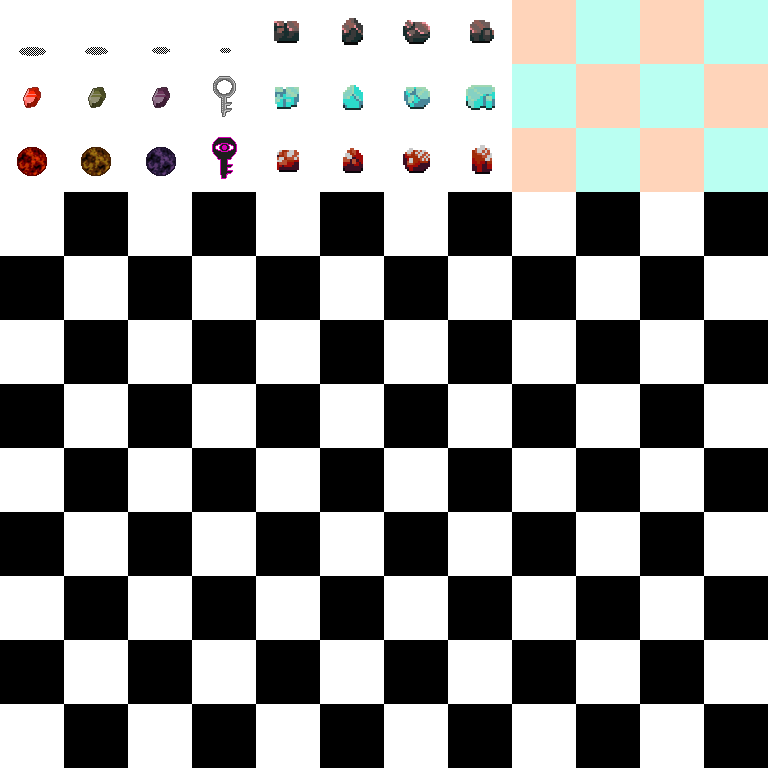
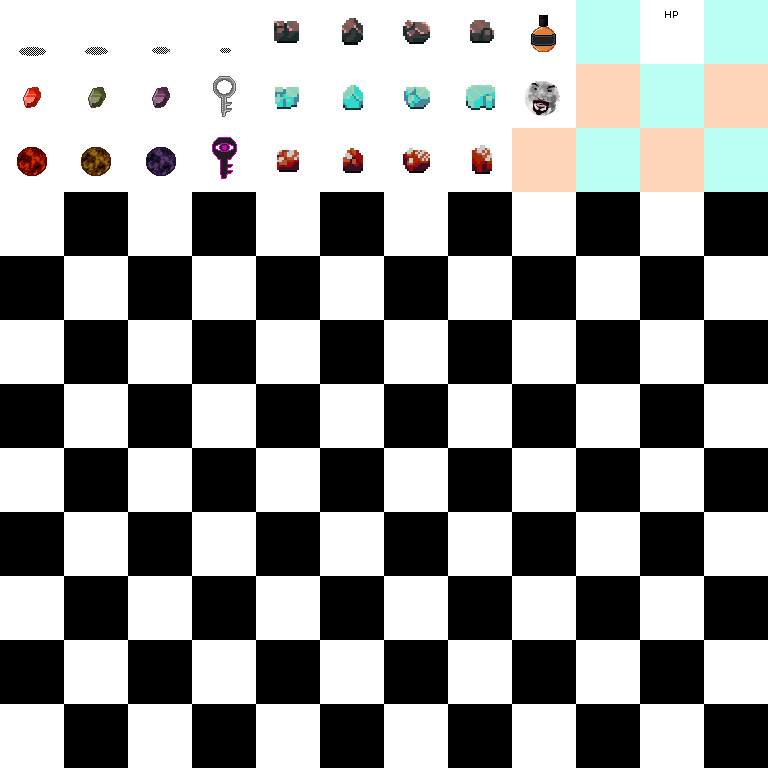
Fixes

Changed region(s): [[0.6562, 0.0, 0.75, 0.1875], [0.8125, 0.0, 0.9375, 0.0938]]

diff --git a/SharpDungeon/Game/Entities/Player.cs b/SharpDungeon/Game/Entities/Player.cs
@@ -250,7 +250,7 @@ namespace SharpDungeon.Game.Entities {
             renderUI(g);
             inventory.render(g);
 
-            TextRenderer.DrawText(g, $"+ = {dropNum+inventory.scroll}\ndropNum = {dropNum}\nscroll = {inventory.scroll}\nwheel = {handler.mouseManager.wheel}\ncharge = {charge}\nhealth = {handler.world.entityManager.player.health}\noffsetx = {handler.gameCamera.xOffset}\noffsety = {handler.gameCamera.yOffset}\nmid = {handler.mouseManager.mouseMid}\nmove = {handler.mouseManager.move}\ndirectionisnull? = {direction == null}\nwasMid = {wasMid}\nwasMid2 = {wasMid2}\nthisX = {thisX}\nthisY = {thisY}\ndirStepX = {dirStepX}\ndirStepY = {dirStepY}\nisRightAnimation = { ((int)x / Tile.tileWidth > handler.world.toWorldX(handler.mouseManager.mouseX)).ToString() }", Assets.themeFont, new Point(0, 500), Color.White);
+            TextRenderer.DrawText(g, $"Count = {inventory.inventoryItems.Count}\n+ = {dropNum+inventory.scroll}\ndropNum = {dropNum}\nscroll = {inventory.scroll}\nwheel = {handler.mouseManager.wheel}\ncharge = {charge}\nhealth = {handler.world.entityManager.player.health}\noffsetx = {handler.gameCamera.xOffset}\noffsety = {handler.gameCamera.yOffset}\nmid = {handler.mouseManager.mouseMid}\nmove = {handler.mouseManager.move}\ndirectionisnull? = {direction == null}\nwasMid = {wasMid}\nwasMid2 = {wasMid2}\nthisX = {thisX}\nthisY = {thisY}\ndirStepX = {dirStepX}\ndirStepY = {dirStepY}\nisRightAnimation = { ((int)x / Tile.tileWidth > handler.world.toWorldX(handler.mouseManager.mouseX)).ToString() }", Assets.themeFont, new Point(0, 500), Color.White);
 
         }
 
@@ -305,45 +305,47 @@ namespace SharpDungeon.Game.Entities {
             //States
             g.DrawImage(Assets.playerStates, 35 + handler.world.width * 8, 13, Assets.playerStates.Width*1.5f, Assets.playerStates.Height* 1.5f);
             g.DrawImage(playerState.getCurrentFrame(), 50 + handler.world.width * 8, 25, Tile.tileWidth, Tile.tileHeight);
+            g.DrawImage(Assets.playerDrop, 35 + handler.world.width * 8, 219, Assets.playerStates.Width * 1.5f, Assets.playerStates.Height * 1.5f);
             g.FillRectangle(Brushes.PaleVioletRed, 134 + handler.world.width * 8, 20, (int)(((double)health / (double)defaultHealth) * (double)249*1.5f), 9);
             g.FillRectangle(Brushes.LightGoldenrodYellow, 134 + handler.world.width * 8, 40, (int)(((double)xp / (double)maxXP) * (double)249 * 1.5f), 9);
+            //Charge
+            g.FillRectangle(Brushes.BlueViolet, 80 + handler.world.width * 8, 239, (int)(((double)charge / (double)20) * (double)249 * 1.5f), 9);
+            g.FillRectangle(Assets.uiBack, 80 + handler.world.width * 8, 239, (int)(((double)chargeTime / (double)10) * (double)249 * 1.5f), 9);
             TextRenderer.DrawText(g, $"Level {level}", Assets.themeFont, new Point(165 + handler.world.width * 8, 70), Color.White);
             TextRenderer.DrawText(g, $"World {world}", Assets.themeFont, new Point(370 + handler.world.width * 8, 70), Color.White);
-
-            //Drop
-            g.DrawImage(Assets.playerDrop, 35 + handler.world.width * 8, 219, Assets.playerStates.Width * 1.5f, Assets.playerStates.Height * 1.5f);
+            
 
             if (renderDrop) {
 
                 wasRenderDrop = true;
 
                 if (inventory.inventoryItems.Count == 1)
-                    g.FillRectangle(Brushes.White, 230 + handler.world.width * 8, 236, 72, 15);
+                    g.FillRectangle(Assets.uiFore, 230 + handler.world.width * 8, 236, 72, 15);
 
                 if (inventory.inventoryItems.Count == 2)
                     if(twoItemsDropNum == 0)
-                        g.FillRectangle(Brushes.White, 198 + handler.world.width * 8, 236, 72, 15);
+                        g.FillRectangle(Assets.uiFore, 198 + handler.world.width * 8, 236, 72, 15);
                     else
-                        g.FillRectangle(Brushes.White, 284 + handler.world.width * 8, 236, 72, 15);
+                        g.FillRectangle(Assets.uiFore, 284 + handler.world.width * 8, 236, 72, 15);
 
                 if (inventory.inventoryItems.Count > 2)
                     if(dropNum == 0)
-                        g.FillRectangle(Brushes.White, 145 + handler.world.width * 8, 236, 72, 15);
+                        g.FillRectangle(Assets.uiFore, 145 + handler.world.width * 8, 236, 72, 15);
                     else if(dropNum == 1)
-                        g.FillRectangle(Brushes.White, 240 + handler.world.width * 8, 236, 72, 15);
+                        g.FillRectangle(Assets.uiFore, 240 + handler.world.width * 8, 236, 72, 15);
                     else if(dropNum == 2)
-                        g.FillRectangle(Brushes.White, 335 + handler.world.width * 8, 236, 72, 15);
+                        g.FillRectangle(Assets.uiFore, 335 + handler.world.width * 8, 236, 72, 15);
 
             } else if(wasRenderDrop) {
                 if(!handler.world.getTile(handler.world.toWorldX(handler.mouseManager.mouseX),
                                           handler.world.toWorldY(handler.mouseManager.mouseY)).isSolid()) {
                     if(inventory.inventoryItems.Count > 2) {
-                            Item item = inventory.inventoryItems[inventory.scroll + dropNum];
-                            item.count--;
-                            handler.world.itemManager.addItem(item.createNew(handler.world.toWorldX(handler.mouseManager.mouseX) * Tile.tileWidth,
-                                                                             handler.world.toWorldY(handler.mouseManager.mouseY) * Tile.tileHeight));
-                            if (item.count <= 0)
-                                inventory.inventoryItems.Remove(item);
+                        Item item = inventory.inventoryItems[inventory.scroll + dropNum];
+                        item.count--;
+                        handler.world.itemManager.addItem(item.createNew(handler.world.toWorldX(handler.mouseManager.mouseX) * Tile.tileWidth,
+                                                                         handler.world.toWorldY(handler.mouseManager.mouseY) * Tile.tileHeight));
+                        if (item.count <= 0)
+                            inventory.inventoryItems.Remove(item);
 
                     } else if(inventory.inventoryItems.Count == 2) {
                         Item item = inventory.inventoryItems[inventory.scroll + twoItemsDropNum];

diff --git a/SharpDungeon/Game/Tiles/CraftingTableCoreTile.cs b/SharpDungeon/Game/Tiles/CraftingTableCoreTile.cs
@@ -5,9 +5,11 @@ using System.Collections.Generic;
 using System.Linq;
 using System.Text;
 using System.Threading.Tasks;
+using System.Windows.Forms;
 
 namespace SharpDungeon.Game.Tiles {
     public class CraftingTableCoreTile : TileSingleSide {
+
 
         public CraftingTableCoreTile(int id) : base(Assets.craftingTableCore[0], id) {
 
@@ -18,10 +20,48 @@ namespace SharpDungeon.Game.Tiles {
             if ((int)(handler.world.entityManager.player.x) / Tile.tileWidth == x &&
                 (int)(handler.world.entityManager.player.y) / Tile.tileHeight == y) {
                 currentTex = Assets.craftingTableCore[1];
-                handler.world.getTile(x - 1, y-1).currentTex = Assets.craftingTableCell[1];
-                handler.world.getTile(x, y-1).currentTex = Assets.craftingTableCell[1];
+                handler.world.getTile(x - 1, y - 1).currentTex = Assets.craftingTableCell[1];
+                handler.world.getTile(x, y - 1).currentTex = Assets.craftingTableCell[1];
                 handler.world.getTile(x + 1, y - 1).currentTex = Assets.craftingTableCell[1];
                 handler.world.getTile(x, y + 1).currentTex = Assets.craftingTableCell[1];
+
+
+                //Scaning items
+
+                Item i1 = null;
+                Item i2 = null;
+                Item i3 = null;
+
+                int item1X = (x-1) * Tile.tileWidth;
+                int item1Y = (y-1) * Tile.tileHeight;
+                
+                int item2X = x * Tile.tileWidth;
+                int item2Y = (y-1) * Tile.tileHeight;
+                
+                int item3X = (x+1) * Tile.tileWidth;
+                int item3Y = (y-1) * Tile.tileWidth;
+
+                foreach (Item i in handler.world.itemManager.items) {
+                    if (i.x == item1X && i.y == item1Y)
+                        i1 = i;
+                    else if (i.x == item2X && i.y == item2Y)
+                        i2 = i;
+                    else if (i.x == item3X && i.y == item3Y)
+                        i3 = i;
+                }
+
+                if (i1 != null && i2 != null && i3 != null) {
+                    //Recipes
+
+                    if (i1.name == "Green rupy" && i2.name == "Red rupy" && i3.name == "Purple rupy") {
+                        handler.world.itemManager.addItem(Item.lighthingKnob.createNew(x * Tile.tileWidth, (y + 1) * Tile.tileHeight));
+                        handler.world.itemManager.items.Remove(i1);
+                        handler.world.itemManager.items.Remove(i2);
+                        handler.world.itemManager.items.Remove(i3);
+                    }
+
+                }
+
             } else {
                 currentTex = Assets.craftingTableCore[0];
                 handler.world.getTile(x - 1, y - 1).currentTex = Assets.craftingTableCell[0];
@@ -29,6 +69,7 @@ namespace SharpDungeon.Game.Tiles {
                 handler.world.getTile(x + 1, y - 1).currentTex = Assets.craftingTableCell[0];
                 handler.world.getTile(x, y + 1).currentTex = Assets.craftingTableCell[0];
             }
+
         }
 
         public override void render(System.Drawing.Graphics g, int x, int y) {

diff --git a/SharpDungeon/Game/Items/Inventory.cs b/SharpDungeon/Game/Items/Inventory.cs
@@ -22,6 +22,8 @@ namespace SharpDungeon.Game.Items {
             addItem(Item.redRupy.createNew(2));
             addItem(Item.greenRupy.createNew(2));
             addItem(Item.purpleRupy.createNew(2));
+            addItem(Item.redTrash1.createNew(2));
+            addItem(Item.redTrash2.createNew(2));
         }
 
         public void tick() {

diff --git a/SharpDungeon/Game/Items/ItemManager.cs b/SharpDungeon/Game/Items/ItemManager.cs
@@ -7,7 +7,7 @@ using System.Threading.Tasks;
 namespace SharpDungeon.Game.Items {
     public class ItemManager {
         private Handler handler;
-        private List<Item> items;
+        public List<Item> items;
 
         public ItemManager(Handler handler) {
             this.handler = handler;
